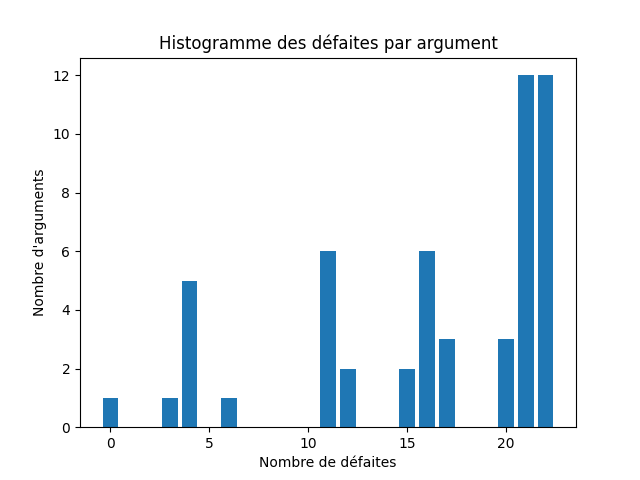
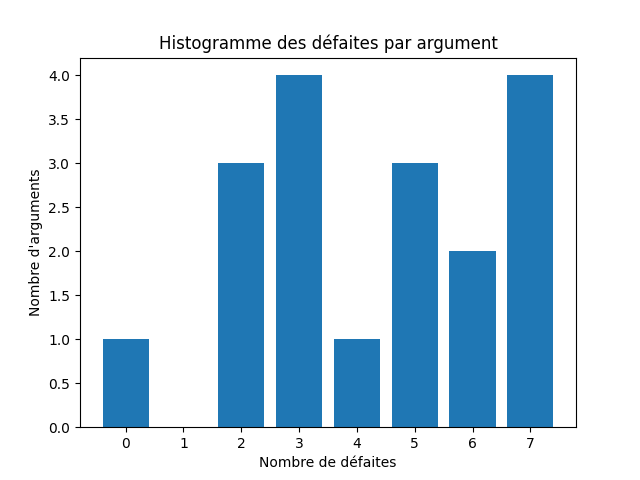
Fix problem with graph

diff --git a/Practical1/Defeats.py b/Practical1/Defeats.py
@@ -207,26 +207,19 @@ def defeat(arg1, arg2, method, principal):
             return (arg1, arg2)
     return None
 
-def genHisto(defeatWeakLink, nbrArg):
+def genHisto(defeatWeakLink, arguments):
     attack = {}
-    for key in defeatWeakLink:
-        for (arg1, arg2) in defeatWeakLink[key]:
-            if arg2 not in attack:
-                attack[arg2] = 1
-            else:
-                attack[arg2] += 1
     
-    histo = {}
-    for attaque in attack.values():
-        if attaque not in histo:
-            histo[attaque] = 1
+    for arg in arguments:
+        count = 0
+        for key in defeatWeakLink:
+            for (arg1, arg2) in defeatWeakLink[key]:
+                if arg2.name == arg.name:
+                    count = count + 1
+
+        if count in attack:
+            attack[count] += 1
         else:
-            histo[attaque] += 1
-    compt = 0
-
-    for key in histo:
-        compt = compt + histo[key]
-
-    histo[0] = nbrArg - compt
-
-    return histo
+            attack[count] = 1
+            
+    return attack

diff --git a/Practical1/app.py b/Practical1/app.py
@@ -9,6 +9,8 @@ from Defeats import defeat, genHisto
 from BurdenBasedSemantics import calculate_bur_values1
 from collections import defaultdict
 import os
+import matplotlib
+matplotlib.use('Agg')
 import matplotlib.pyplot as plt
 
 app = Flask(__name__)
@@ -112,13 +114,15 @@ def calcDefeats():
             if defeatTuple is not None:
                 defeatWeakLink[arg1.topRule.conclusion].add(defeatTuple)
 
-    histo = genHisto(defeatWeakLink, len(arg))
+    histo = genHisto(defeatWeakLink, arg)
 
     plt.bar(histo.keys(), histo.values())
     plt.xlabel('Nombre de défaites')
     plt.ylabel('Nombre d\'arguments')
     plt.title('Histogramme des défaites par argument')
-    plt.savefig('static/histo.png')
+    with app.app_context():
+        plt.savefig('static/histo.png')
+        plt.close()
 
     return render_template('index.html', parsedRules=parsedRules, arguments=arg, undercuts=undercuts, rebuts=rebuts, defeatWeakLink=defeatWeakLink)
 
